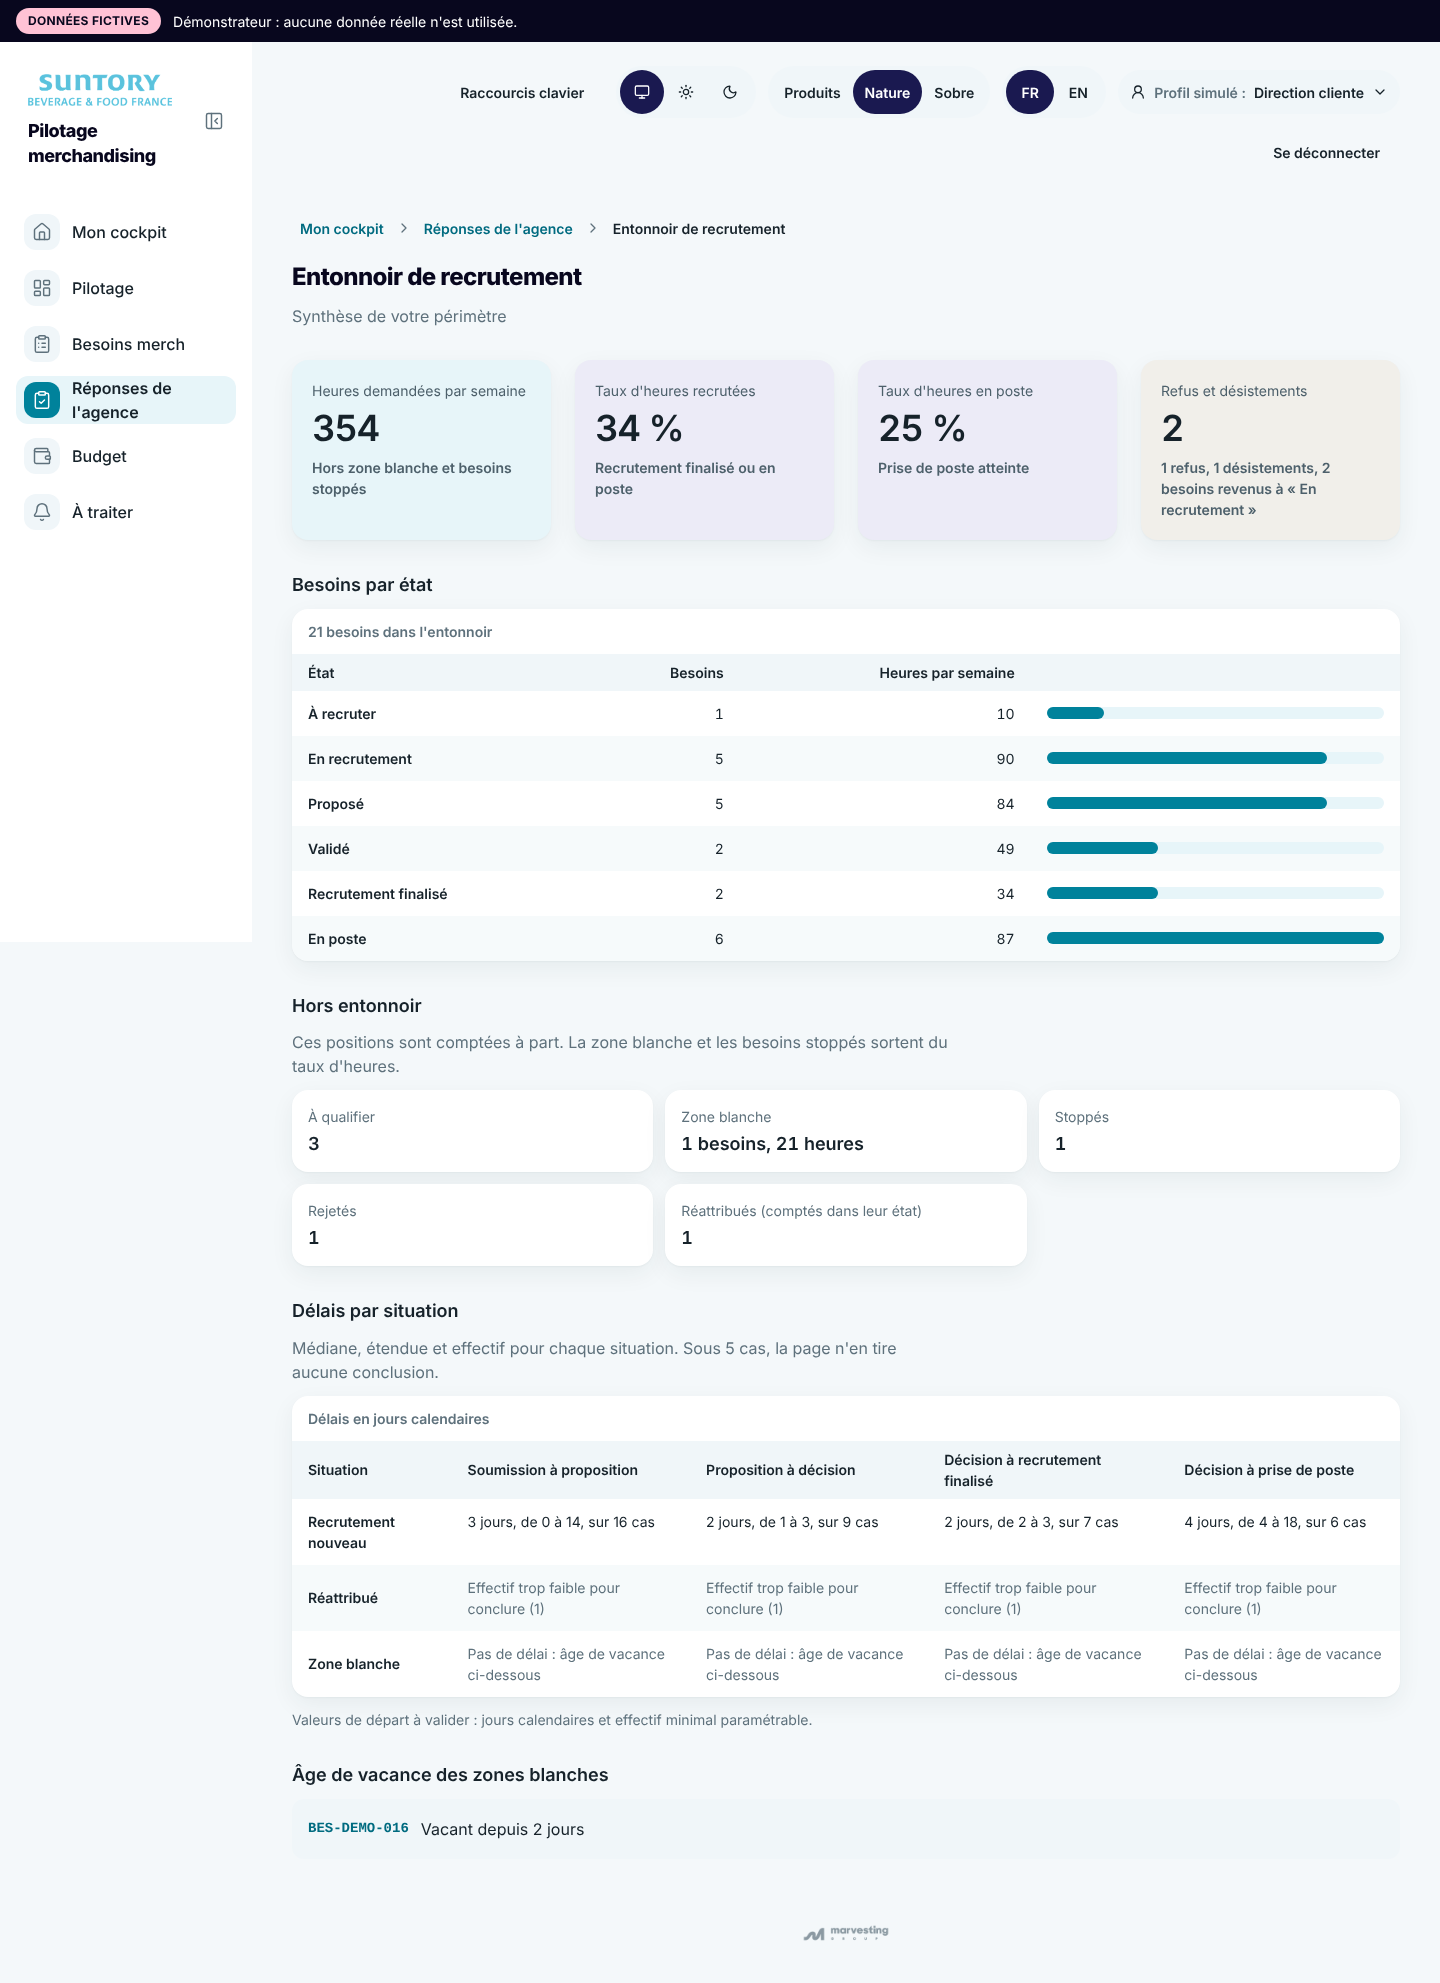
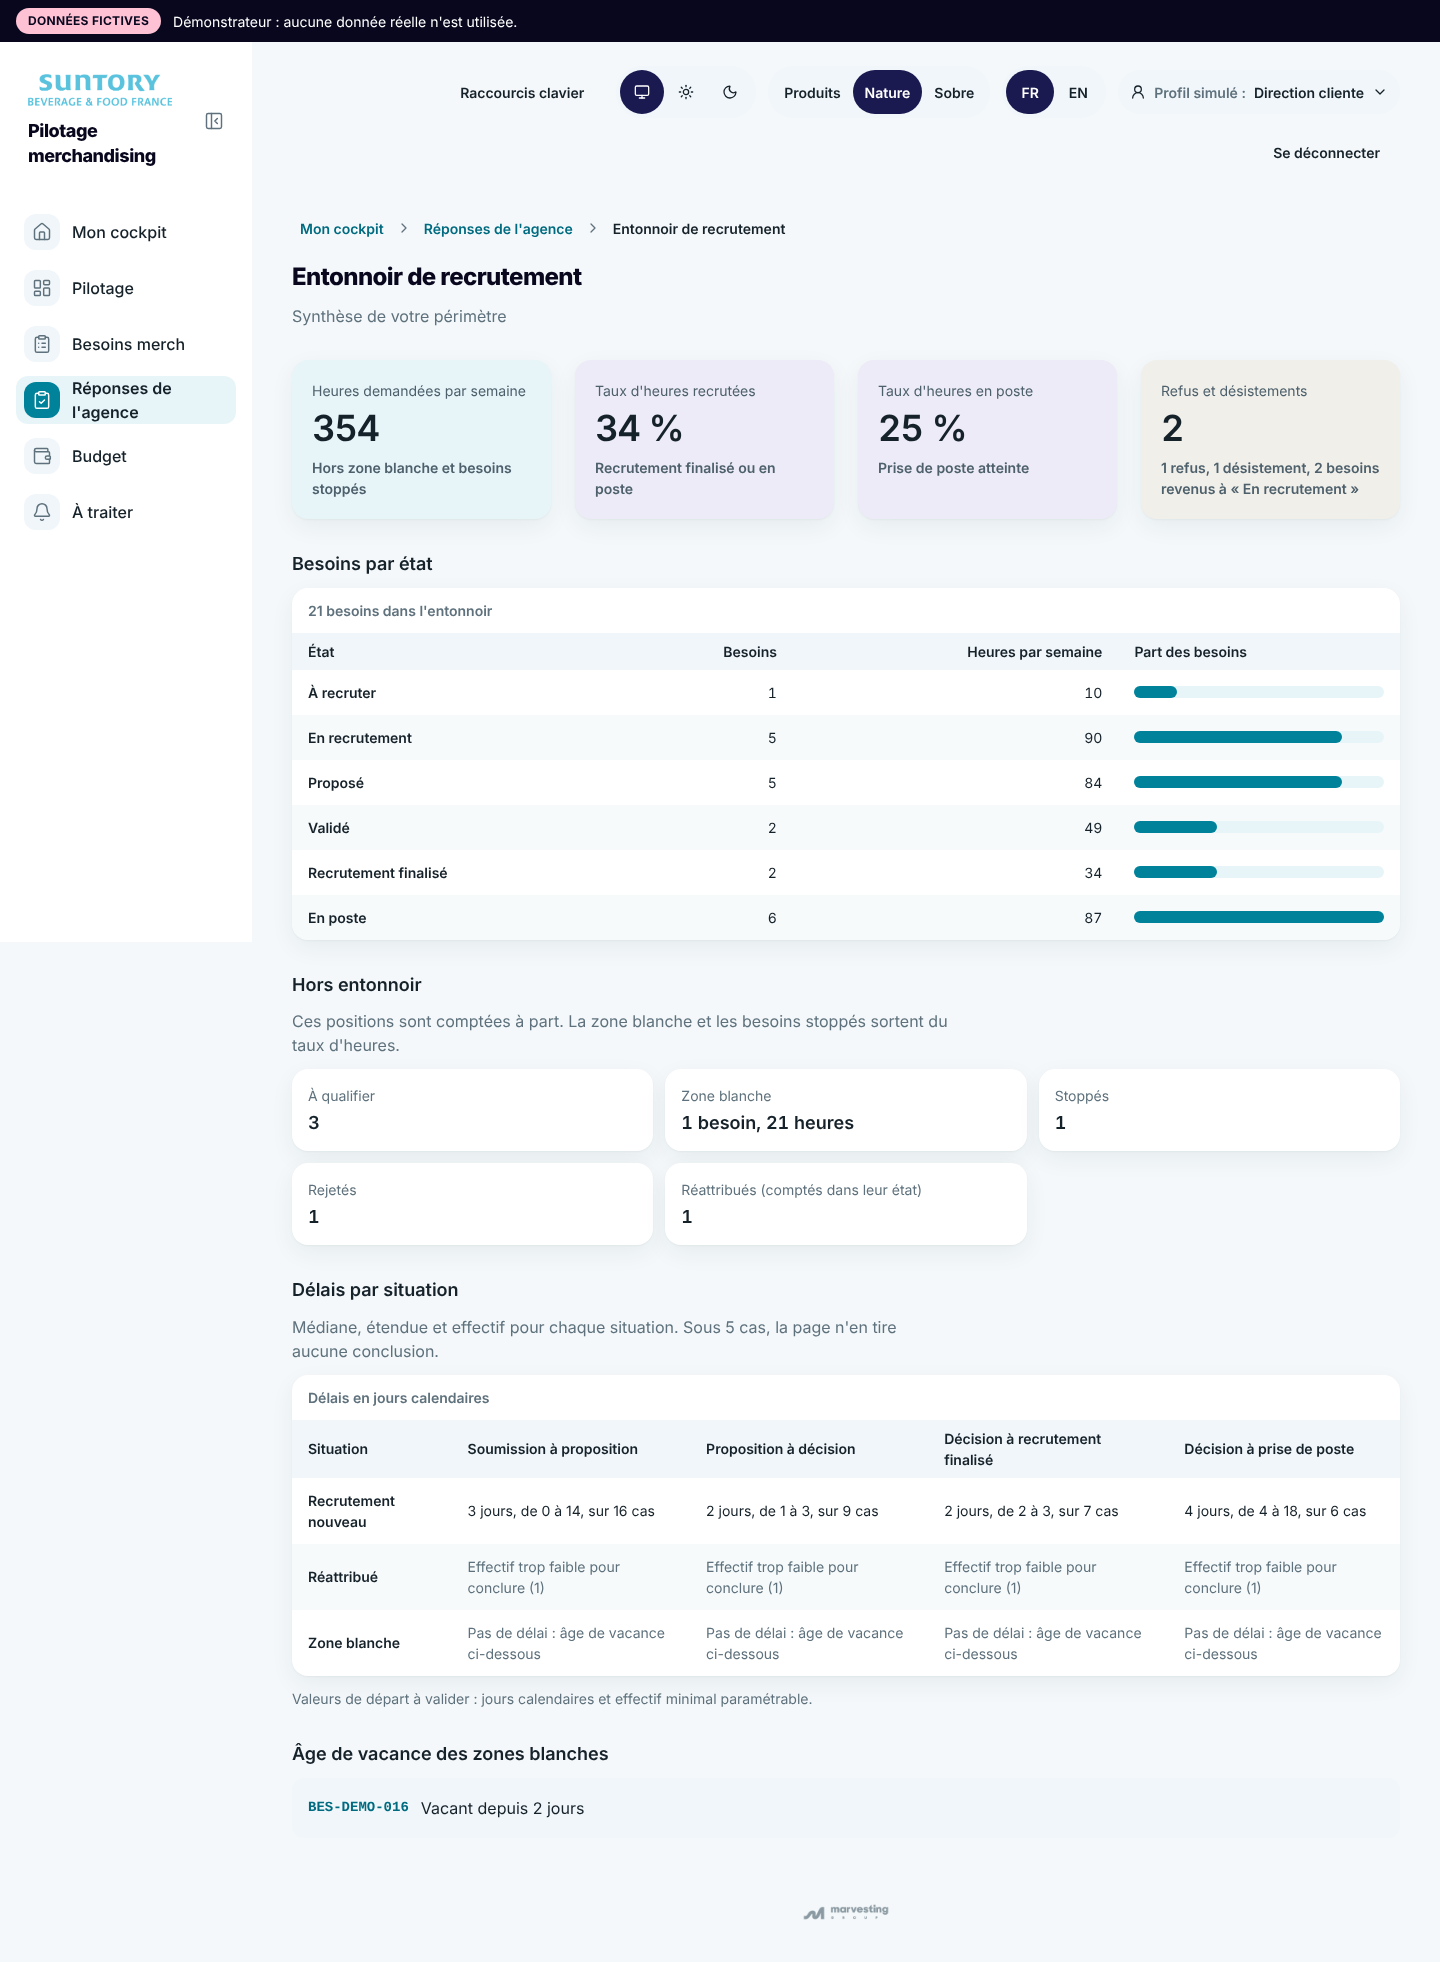
Revue A3 : rapport, captures régénérées, test du taux rendu inconditionnel

diff --git a/src/app/[locale]/(app)/proposals/[id]/page.tsx b/src/app/[locale]/(app)/proposals/[id]/page.tsx
@@ -27,6 +27,8 @@ export default async function NeedThreadPage({ params }: { params: Promise<{ loc
   setRequestLocale(locale);
   const ctx = await getAccessContext(locale as Locale);
   const loc = ctx.locale;
+  // Ponctuation propre à la langue : espace avant les deux-points en français seulement.
+  const colon = loc === 'en' ? ':' : ' :';
   const thread = await repository.getNeedThread(ctx, id);
   if (!thread) notFound();
   const { row, proposals, decisions, events, notes } = thread;
@@ -126,8 +128,8 @@ export default async function NeedThreadPage({ params }: { params: Promise<{ loc
           {dimension(t('dimension.execution'), (
             <>
               {row.positionStatus ? <StatusTag tone={POSITION_TONE[row.positionStatus]}>{t(`position.${row.positionStatus}`)}</StatusTag> : <span className="text-muted">{t('none')}</span>}
-              <span className="text-sm">{t('detail.startWork')} : {rec.start_work_date ? formatDate(rec.start_work_date, loc) : t('notRecorded')}</span>
-              <span className="text-sm">{t('detail.vehicle')} : {rec.vehicle_handover_date ? formatDate(rec.vehicle_handover_date, loc) : t('notRecorded')}</span>
+              <span className="text-sm">{t('detail.startWork')}{colon} {rec.start_work_date ? formatDate(rec.start_work_date, loc) : t('notRecorded')}</span>
+              <span className="text-sm">{t('detail.vehicle')}{colon} {rec.vehicle_handover_date ? formatDate(rec.vehicle_handover_date, loc) : t('notRecorded')}</span>
               {agency && row.billableFrom ? <span className="text-sm text-muted">{t('detail.billableFrom', { date: formatDate(row.billableFrom, loc) })}</span> : null}
             </>
           ))}
@@ -136,7 +138,7 @@ export default async function NeedThreadPage({ params }: { params: Promise<{ loc
 
       <section aria-labelledby="next-title" data-testid="next-step" className="mb-8 flex flex-col gap-3 rounded-card bg-tint-aqua p-5 text-ink shadow-card">
         <h2 id="next-title" className="text-lg font-semibold">{t('detail.next')}</h2>
-        <p className="text-lg font-semibold">{t(`actor.${row.next.actor}`)} : {t(`action.${row.next.action}`)}</p>
+        <p className="text-lg font-semibold">{t(`actor.${row.next.actor}`)}{colon} {t(`action.${row.next.action}`)}</p>
         <div className="flex flex-wrap items-center gap-3">
           {row.next.due ? <span>{t('due', { date: formatDate(row.next.due, loc) })}</span> : null}
           {row.next.urgency ? <StatusTag tone={URGENCY_TONE[row.next.urgency]}>{t(`urgency.${row.next.urgency}`)}</StatusTag> : null}
@@ -167,18 +169,18 @@ export default async function NeedThreadPage({ params }: { params: Promise<{ loc
                     {agency && p.cost_status ? <StatusTag tone={p.cost_status === 'complete' ? 'ok' : 'attention'}>{t(`proposal.costStatus.${p.cost_status}`)}</StatusTag> : null}
                   </div>
                   <dl className="grid gap-x-6 gap-y-1 text-sm sm:grid-cols-2">
-                    <div><dt className="inline font-semibold">{t('proposal.hours')} : </dt><dd className="inline">{p.weekly_hours}</dd></div>
-                    <div><dt className="inline font-semibold">{t('proposal.days')} : </dt><dd className="inline">{formatWeekdays(p.days, loc)}</dd></div>
-                    <div><dt className="inline font-semibold">{t('proposal.slot')} : </dt><dd className="inline">{p.hours_slot ?? t('none')}</dd></div>
-                    <div><dt className="inline font-semibold">{t('proposal.period')} : </dt><dd className="inline">{t('detail.range', { start: formatDate(p.start_date, loc), end: formatDate(p.end_date, loc) })}</dd></div>
-                    <div><dt className="inline font-semibold">{t('proposal.stores')} : </dt><dd className="inline">{p.store_codes.length}</dd></div>
+                    <div><dt className="inline font-semibold">{t('proposal.hours')}{colon} </dt><dd className="inline">{p.weekly_hours}</dd></div>
+                    <div><dt className="inline font-semibold">{t('proposal.days')}{colon} </dt><dd className="inline">{formatWeekdays(p.days, loc)}</dd></div>
+                    <div><dt className="inline font-semibold">{t('proposal.slot')}{colon} </dt><dd className="inline">{p.hours_slot ?? t('none')}</dd></div>
+                    <div><dt className="inline font-semibold">{t('proposal.period')}{colon} </dt><dd className="inline">{t('detail.range', { start: formatDate(p.start_date, loc), end: formatDate(p.end_date, loc) })}</dd></div>
+                    <div><dt className="inline font-semibold">{t('proposal.stores')}{colon} </dt><dd className="inline">{p.store_codes.length}</dd></div>
                   </dl>
                   <div className="flex flex-wrap items-center gap-2">
                     <span className="text-sm font-semibold">{t('proposal.deviations')}</span>
                     {p.deviations.length === 0 ? <StatusTag tone="ok">{t('proposal.noDeviation')}</StatusTag> : p.deviations.map((d) => <StatusTag key={d} tone="attention">{t(`proposal.deviation.${d}`)}</StatusTag>)}
                   </div>
                   {p.deviation_note ? <p>{p.deviation_note}</p> : null}
-                  {p.withdrawn_on ? <p className="text-muted">{t('detail.withdrawnOn', { date: formatDate(p.withdrawn_on, loc) })}{p.withdrawn_motive ? ` : ${p.withdrawn_motive}` : ''}</p> : null}
+                  {p.withdrawn_on ? <p className="text-muted">{t('detail.withdrawnOn', { date: formatDate(p.withdrawn_on, loc) })}{p.withdrawn_motive ? `${colon} ${p.withdrawn_motive}` : ''}</p> : null}
                   {own.map((d) => (
                     <div key={d.id} data-decision-status={d.status} className="flex flex-col gap-2 rounded-ctl bg-alt px-4 py-3">
                       <div className="flex flex-wrap items-center gap-2">

diff --git a/tests/unit/a3-repository.test.ts b/tests/unit/a3-repository.test.ts
@@ -387,15 +387,13 @@ describe('recrutement : sorties, hors entonnoir, délais', () => {
     expect(report.params.min_sample).toBe(5);
   });
   it('taux : nul (donnée indisponible) quand aucune heure n\'est demandée, jamais 0', async () => {
-    const report = await repo.getFunnelReport(ctxOf('rs'));
-    expect(report.summary.demandedHours).toBeGreaterThan(0);
-    const other = { ...ctxOf('rs'), scope: { kind: 'rs' as const, ids: [zones.find((z) => z.kind === 'rs' && z.parent_id !== CVR_ZONE && z.responsible_name !== '')!.id] } };
-    const empty = { ...other, scope: { kind: 'rs' as const, ids: [zones.filter((z) => z.kind === 'rs').at(-1)!.id] } };
+    expect((await repo.getFunnelReport(ctxOf('rs'))).summary.demandedHours).toBeGreaterThan(0);
+    // Le douzième secteur n'a ni besoin ni magasin : aucune heure demandée.
+    const empty = { ...ctxOf('rs'), scope: { kind: 'rs' as const, ids: [zones.filter((z) => z.kind === 'rs').at(-1)!.id] } };
     const r = await repo.getFunnelReport(empty);
-    if (r.summary.demandedHours === 0) {
-      expect(r.summary.hiredRate).toBeNull();
-      expect(r.summary.startedRate).toBeNull();
-    }
+    expect(r.summary.demandedHours).toBe(0);
+    expect(r.summary.hiredRate).toBeNull();
+    expect(r.summary.startedRate).toBeNull();
   });
 });
 

diff --git a/docs/REVUE_A3.md b/docs/REVUE_A3.md
@@ -1,0 +1,54 @@
+# Revue du lot A3 (D191)
+
+Relecteur indépendant, branche `revue/A3` depuis `claude/gracious-goldberg-pggi8w` (f2fd6f9), `origin/main` (e05a9cd) fusionné sans conflit. Données fictives uniquement, aucune requête externe, aucun fichier de données réelles lu. `docs/DECISIONS.md` n'est pas modifié à ce stade.
+
+## 1. Verdict provisoire : **fusionnable** sous réserve de la validation de T. SOEFOU et des contrôles finaux (étape 9)
+Aucun bloquant. Deux défauts importants et deux mineurs corrigés sur `revue/A3` (§3). Écarts restants au §6.
+
+## 2. Conformité aux critères du prompt A3
+| Critère | Preuve |
+|---|---|
+| 1. Contrôles exécutés | §4 |
+| 2. Scénarios refus, modification après accord, remplacement, deux propositions | `tests/unit/a3-repository.test.ts` : « scénario : refus puis nouvelle proposition », « modification après accord » (version différente, version identique refusée, écart non expliqué refusé, besoin modifié par fusion : EV-12 invalide l'accord, la décision reste au dossier avec `invalidated_reason`), « deux propositions sur un besoin », remplacement dans les fixtures. Rejoués ici : 46 tests verts. |
+| 3. Jamais un statut unique | test « chaque dimension évolue seule » ; quatre cartes distinctes sur le fil du besoin |
+| 4. Audience de tous les événements et alertes | tests « audience de tous les événements et de toutes les alertes » (valeur dans `AUDIENCES`, aucune donnée de coût, de note ou de motif dans le journal, aucun événement d'audience agence côté cliente pour les 4 profils clientes, alertes d'agence absentes côté cliente) |
+| 5. Captures, C1 à C7, compte rendu, registre | 40 captures régénérées, C1/C2/C4/C5/C6/C7 verts, C3 non exécuté (§4), compte rendu présent, registre proposé §8 |
+| 6. Règles 14 à 16 | URL (filtre, tri, retour, rechargement, lien profond : `a3.spec.ts`), trois états par route (`loading.tsx` dans chaque route, `error.tsx` de section, vide dans la liste), 404 avant streaming (`[id]/layout.tsx`), cartes sous 640 px (corrigé, §3), cibles de 44 px (e2e 390 px), jetons (tests de style verts), perf mesurée : premier affichage 0,35 à 0,6 s, interaction 1 ms |
+| 7. Git | aucun commit sur `main` par le lot, aucune pull request |
+
+## 3. Constats et corrections (un commit par correction)
+| # | Gravité | Constat | Correction |
+|---|---|---|---|
+| 1 | Important | `getNeedThread` rendait à la cliente une note partagée posée sur un **brouillon** de proposition (le brouillon est invisible de la cliente, pas ses notes dans le fil) | filtre `onHiddenDraft` dans le fil et dans `getNotes`, test d'abord |
+| 2 | Important | La cliente pouvait décider (seule ou en lot) sur un besoin **stoppé ou rejeté** | `decideOne` refuse `not_decidable`, formulaire masqué, test d'abord |
+| 3 | Important | Tableaux de l'entonnoir (stock, délais) non convertis en cartes sous 640 px : colonnes de droite coupées à 390 px (vu sur capture) | remplacés par `DataTable`, contrôle e2e à 390 px |
+| 4 | Important | Test d'annulation e2e acceptant deux issues (serveur partagé) | projet Playwright `isolated`, serveur 3101, fichier `undo-isolated.spec.ts` : une seule issue (« Modification annulée », puis état restauré après rechargement) ; l'ancien test est retiré de `a3.spec.ts` |
+| 5 | Mineur | Pluriels « 1 besoins », « 1 refus, 1 désistements » | déjà corrigés par le lot après capture ; captures régénérées ici |
+| 6 | Mineur | Espace avant les deux-points en anglais (« Hours per week : 28 ») | ponctuation par langue |
+| 7 | Mineur | Test « taux nul » conditionnel, pouvant ne rien affirmer | rendu inconditionnel |
+| 8 | Mineur, hors lot | `guards.test.ts` C7 (`git log --all`) dépasse parfois 5 s sous charge (échec unique observé, relancé vert) | signalé, non corrigé |
+
+Questions de périmètre (e) : **F-30.1 et F-30.2 absentes** (aucun code ni événement EV-06 à EV-08 ; seul un commentaire de `types.ts` les mentionne). **F-30.3 (délégations)** : absente. **F-30.4 (qualification agence)** : présente, `qualifyNeed` (prise en charge, précision demandée, rejet motivé, motif obligatoire, EV-09, formulaire `QualifyForm`, une qualification unique). Hypothèse du lot à trancher : un besoin soumis est réputé validé par la chaîne cliente.
+
+## 4. Contrôles exécutés (sortie réelle)
+| Contrôle | Résultat |
+|---|---|
+| `npx tsc --noEmit` | 0 erreur |
+| `npm run lint` | 0 erreur, 0 avertissement |
+| `npx vitest run` | **30 fichiers, 652 tests passés, 1 ignoré (C3)** |
+| `npm run build` | réussi |
+| `npx playwright test` | **109 passés sur 109** (dont 2 du projet isolé) |
+| `npx playwright test --config=playwright.shots.config.ts tests/shots/a3.spec.ts` | 7 passés, 40 captures, console et réseau externe vides |
+| C3 (`guards.test.ts`) | **non exécuté** : `.denylist.local` absent de cette session (fichier local de T. SOEFOU, jamais versionné) ; C1, C2, C4, C5, C6, C7 exécutés et verts |
+
+## 5. Captures
+Regardées dans cette revue (images ouvertes) : `list_rs_en_1440`, `thread_decision_pending_cvr_en_1440`, `funnel_direction_en_390` (avant et après correction), `alerts_agency_en_1440`, `list_cvr_dark_fr_1440`, `flow_3_refused_fr_1440`, `list_agency_operator_en_390`. Vues pendant la session du lot (avant régénération, même rendu) : `list_agency_operator_fr_1440`, `list_cvr_client_fr_1440`, `funnel_direction_fr_1440`, `thread_replacement_agency_fr_390` (échelle réduite), `flow_4_..._en_390`.
+Couverture : /proposals (agence, CVR, RS ; FR, EN ; 1440, 390 ; sombre), /proposals/[id] (CVR, agence ; FR, EN ; 1440 ; 390), /proposals/funnel (direction ; FR, EN ; 1440, 390), alertes agence EN. **Non vues, donc non attestées visuellement : 24 des 40 images**, dont `thread_refusal_agency` (4), `thread_replacement_agency` EN et 1440 après régénération, `alerts_agency` FR et 390, `list_*` FR 390, `list_cvr` EN 390, `list_rs` FR, `flow_1`, `flow_2`, `flow_4` FR. Leurs pages sont couvertes par les tests e2e (aucune erreur de console, aucune requête externe, pas de débordement horizontal, cartes à 390 px).
+Vu : rendu cohérent, états lisibles en clair et en sombre, FR et EN séparés, bandeau « DONNÉES FICTIVES » présent, contraste correct, tableau liste coupé par la hauteur maximale du composant commun (défaut connu d'A2b, hors lot). Défaut des captures plein écran : le menu latéral collant apparaît au milieu de la page (artefact de capture, déjà présent en A2b). Mineur sémantique : la carte « Exécution » affiche le statut de poste (« Refusé », « Proposé »), libellé à revoir avec A3c.
+
+## 6. Écarts restants (non corrigés, à arbitrer)
+- **Accord invalidé après recrutement finalisé** : si le besoin change après le recrutement, l'accord est invalidé mais l'état « Recrutement finalisé » reste (signalé par l'étiquette « le besoin a changé »). À trancher avec A3c.
+- **Besoin stoppé et taux** : le code exclut tout le besoin du taux (numérateur et dénominateur), y compris les heures déjà effectuées. Ce n'est pas la règle proposée (D211) : à coder avec le lot qui consomme le taux.
+- **Délais « même jour » et « plus tard dans la journée »** : non codés (le lot mesure J1 à J4 par situation de recrutement). À coder avec A4a ou A4c2 (D210).
+- F-30.1, F-30.2, F-30.3 : A3c.
+- Annulation globale par instantané (D181) : limite connue de l'étape A.
